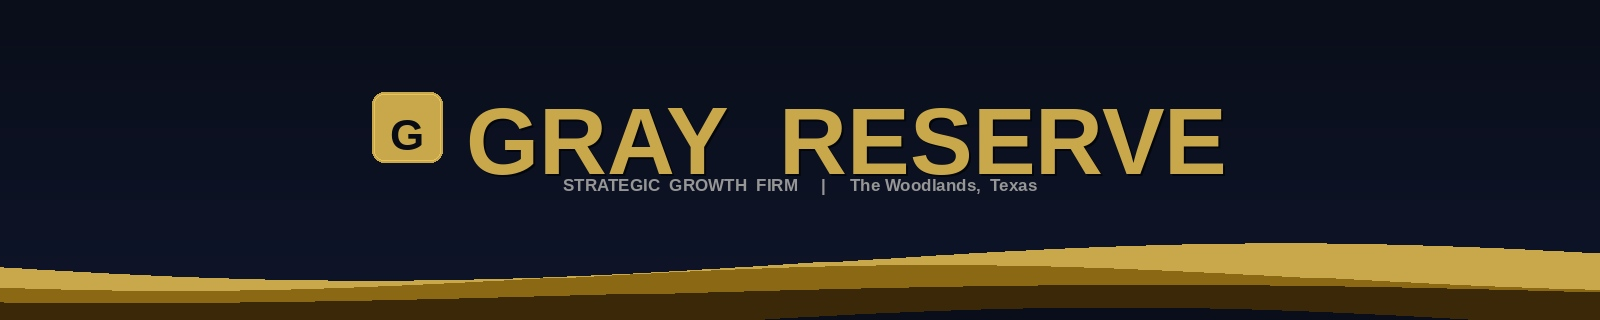
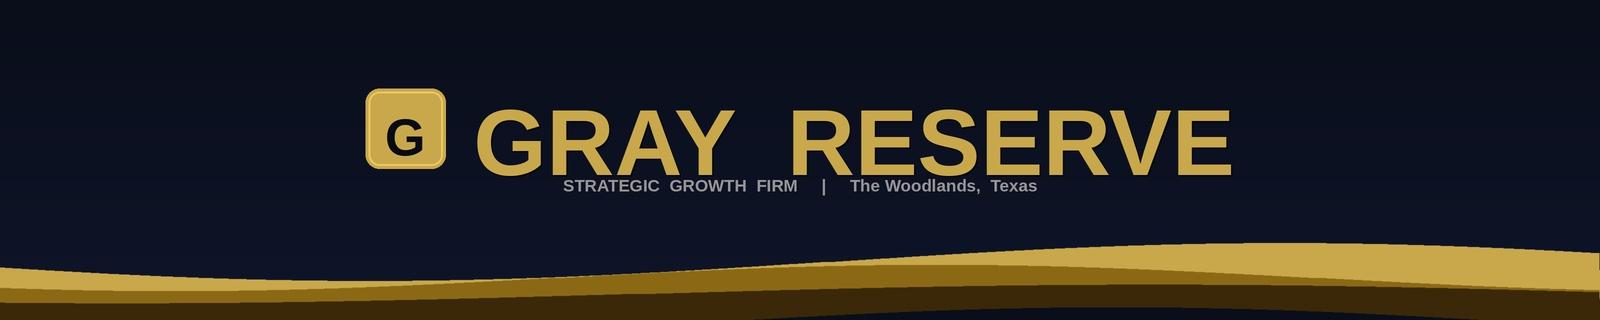
Crisp 2x header render, SEO Companion own grid cell, Speed Optimizations plugin added (row 2)

diff --git a/README.md b/README.md
@@ -190,15 +190,36 @@ plugins/gr-checkout/
     └── class-grc-thankyou.php
 ```
 
+</td>
+</tr>
+<tr>
+<td width="50%" valign="top">
+
 ### 🔍 GR SEO Companion
 **Rich results on day one.**
 
-Runs as `mu-plugin` — always on. Auto-injects JSON-LD: Product schema (Brand, GTIN, MPN, AggregateRating, Offers with sale dates), Review schema, FAQPage schema from native HTML. Zero configuration required.
+Runs as `mu-plugin` — always on, cannot be accidentally deactivated. Auto-injects JSON-LD structured data across the entire site: WooCommerce Product schema (Brand, GTIN, MPN, AggregateRating, Offers with sale dates), Review schema, and FAQPage schema parsed automatically from native `<details>/<summary>` HTML. Zero configuration required. Zero query overhead.
 
 ```
 plugins/gr-seo-companion/
 └── gr-seo-companion.php
     (single-file mu-plugin — lean by design)
+```
+
+</td>
+<td width="50%" valign="top">
+
+### 🚀 GR Speed Optimizations
+**Front-end performance without the overhead.**
+
+Targeted performance layer for sites that need speed gains without a full caching overhaul. Resource hints (preconnect, DNS-prefetch), native lazy loading, font-display swap, YouTube facade, link prefetch on hover, and selective script defer — all without touching jQuery, Revolution Slider, or WPBakery. Ships with a companion JS loader that runs before DOM-ready.
+
+```
+plugins/gr-speed-optimizations/
+├── g2-speed-optimizations.php
+└── g2-speed-load.js
+    (resource hints · defer · lazy load ·
+     preconnect headers · YouTube facade)
 ```
 
 </td>
